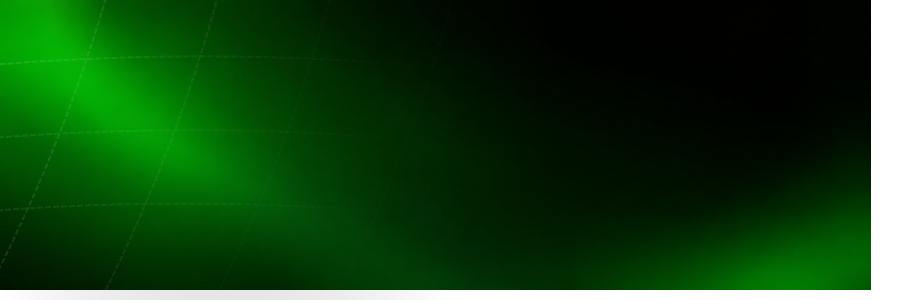
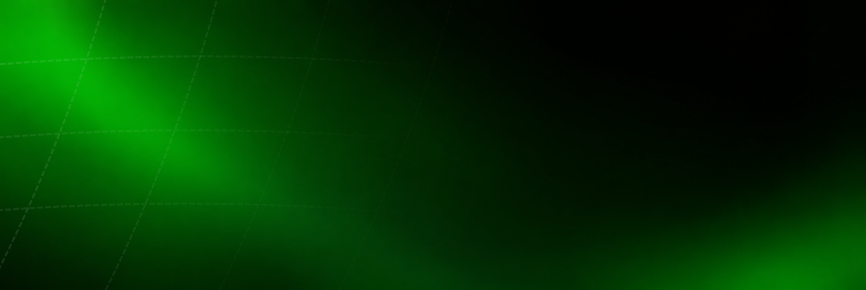
add button functionlity, add carousel, more

Changed region(s): [[0.0, 0.0, 1.0, 1.0]]

diff --git a/docs/index.html b/docs/index.html
@@ -12,13 +12,19 @@
     <div class="header-section">
         <img src="./Sismo_logo_final-circle.png" alt="SISMO logo">
         <h1>SISMO</h1>
-        <nav class="nav-bar" aria-label="Main navigation">
-            <a href="team.html">Team</a>
+        <nav class="nav-bar timeline-nav">
+            <a href="#timeline-panel" class="scroll-button">Timeline</a>
         </nav>
-        <nav class="nav-bar" aria-label="Main navigation">
-            <a href="problem.html">Problem</a>
+
+        <nav class="nav-bar">
+            <a href="#team-panel" class="scroll-button">Team</a>
         </nav>
-        <nav class="nav-bar github-nav" aria-label="Main navigation">
+
+        <nav class="nav-bar">
+            <a href="#product-panel" class="scroll-button">Product</a>
+        </nav>
+
+        <nav class="nav-bar github-nav">
             <a href="https://github.com/DylanSoule/SISMO-HUNCH-26-27" target="_blank">Github</a>
         </nav>
     </div>
@@ -63,11 +69,12 @@
         <h2>Cool Title</h2>
 
         <nav class="nav-box">
-            <button class="active" data-panel="timeline-panel">
+            <button class="active" data-panel="timeline-panel" id="timeline-target">
                 Timeline?
             </button>
 
             <button data-panel="team-panel">
+
                 Team
             </button>
 
@@ -110,7 +117,28 @@
             </section>
         </div>
     </section>
-        <footer>
+
+    <section class="fourth-box">
+        <h2>gns3/rresearch/cable diagram</h2>
+        <div class="carousel">
+            <div class="slide" id="slide-1">
+                <div class="slide-image-slot" aria-label="Image slot for slide 1"></div>
+                <p>Add a description for the first image here.</p>
+            </div>
+            <div class="slide" id="slide-2">
+                <div class="slide-image-slot" aria-label="Image slot for slide 2"></div>
+                <p>Add a description for the second image here.</p>
+            </div>
+            <div class="slide" id="slide-3">
+                <div class="slide-image-slot" aria-label="Image slot for slide 3"></div>
+                <p>Add a description for the third image here.</p>
+            </div>
+
+        </div>
+
+    </section>
+
+    <footer>
         <h3>View Our Project on GitHub</h3>
         <p>Check out the source code, documentation, and contribute to the SISMO project.</p>
         <a href="https://github.com/DylanSoule/SISMO-HUNCH-26-27" target="_blank">
@@ -124,6 +152,9 @@
 <script>
     const buttons = document.querySelectorAll(".nav-box button");
     const panels = document.querySelectorAll(".tab-panel");
+    const scrollButtons = document.querySelectorAll(".scroll-button");
+    const carousel = document.querySelector(".carousel");
+    const slides = document.querySelectorAll(".slide");
 
     buttons.forEach(button => {
         button.addEventListener("click", () => {
@@ -139,6 +170,48 @@
 
             button.classList.add("active");
             document.getElementById(selectedPanel).classList.add("active");
+        });
+    });
+
+    scrollButtons.forEach(link => {
+        link.addEventListener("click", event => {
+            event.preventDefault();
+
+            const panelId = link.getAttribute("href").substring(1);
+            const targetButton = document.querySelector(
+                `[data-panel="${panelId}"]`
+            );
+
+            if (!targetButton) {
+                return;
+            }
+
+            targetButton.click();
+
+            document.querySelector(".third-box").scrollIntoView({
+                behavior: "smooth",
+                block: "start"
+            });
+        });
+    });
+
+    slides.forEach(slide => {
+        slide.addEventListener("click", event => {
+            const clickedSlide = event.currentTarget;
+            const currentIndex = Math.round(
+                carousel.scrollLeft / (clickedSlide.offsetWidth + 16)
+            );
+            const clickedIndex = Array.from(slides).indexOf(clickedSlide);
+
+            if (clickedIndex === currentIndex) {
+                return;
+            }
+
+            clickedSlide.scrollIntoView({
+                behavior: "smooth",
+                block: "nearest",
+                inline: "center"
+            });
         });
     });
 </script>

diff --git a/docs/style.css b/docs/style.css
@@ -1,6 +1,7 @@
 html,
 body {
     min-height: 100%;
+    scroll-behavior: smooth;
     margin: 0;
 }
 
@@ -33,7 +34,7 @@ body {
 }
 
 .header-section img {
-    padding-top: 0;
+    padding-top: 10px;
     padding-left: 30px;
     width: 30px;
     height: 30px;
@@ -151,9 +152,9 @@ body {
 }
 
 .third-box {
-    width: 98%;
+    width: auto;
     min-height: 420px;
-    margin: 0 0 40px 13px;
+    margin: 0 13px 40px;
     padding: 30px;
     box-sizing: border-box;
     display: grid;
@@ -163,6 +164,7 @@ body {
     align-content: start;
     background: url(third_bg.png) center / cover no-repeat;
     border-radius: 10px;
+    scroll-margin-top: 90px;
 }
 
 .third-box h2 {
@@ -178,7 +180,7 @@ body {
 
 .nav-box {
     grid-column: 1 / -1;
-    width: 30%;
+    width: 35%;
     justify-self: center;
     align-self: start;
     display: flex;
@@ -191,6 +193,7 @@ body {
 }
 
 .nav-box button {
+    scroll-margin-top: 250px;
     font: inherit;
     font-size: 22px;
     font-weight: bold;
@@ -273,33 +276,58 @@ body {
 .team-cards .card h2,
 .team-cards .card p {
     margin: 16px 0;
+    color: black;
     text-align: left;
 }
 
 
+.fourth-box {
+    width: auto;
+    min-width: 0;
+    min-height: 700px;
+    margin: 0 13px 40px;
+    padding: 30px;
+    box-sizing: border-box;
+    display: grid;
+    grid-template-columns: repeat(4, minmax(0, 1fr));
+    gap: 16px;
+    background: url(fourth_bg.png) center / cover no-repeat;
+    border-radius: 10px;
+}
 
+.fourth-box h2 {
+    grid-column: 1 / -1;
+    margin: 0;
+    color: white;
+    text-align: center;
+    font-family: 'Slabo', serif;
+    font-size: 2.3em;
+}
 
 footer {
     background: rgb(0, 31, 0);
-    padding: 25px 20px 20px 20px !important;
+    box-sizing: border-box;
+    padding: 25px 20px 20px;
     text-align: center;
-    margin: 40px 0 0 0 !important;
-    color: rgb(253, 250, 250) !important;
-    width: 100% !important;
-    position: relative;
-    z-index: 1;
+    margin: 0;
+    color: rgb(253, 250, 250);
+    width: 100%;
 }
 
 footer h3 {
-    color: rgb(255, 255, 255) !important;
+    color: rgb(255, 255, 255);
     font-size: 1.3em;
     margin-bottom: 10px;
 }
 
 footer p {
-    color: #fcfcfc !important;
+    color: #fcfcfc;
     font-size: 0.9em;
     margin: 5px 0;
+}
+
+footer a {
+    color: white;
 }
 
 footer a {
@@ -341,4 +369,60 @@ footer a:hover {
 }
 
 
+
+
+.carousel {
+    grid-column: 1 / -1;
+    display: flex;
+    min-height: 560px;
+    overflow-x: auto;
+    padding: 0 9%;
+    scroll-behavior: smooth;
+    scroll-snap-type: x mandatory;
+    scroll-padding: 0 9%;
+    gap: 12px;
+    scrollbar-width: none;
+}
+
+.carousel::-webkit-scrollbar {
+  display: none;
+}
+
+
+.slide {
+    flex: 0 0 88%;
+    width: 88%;
+    position: relative;
+    min-height: 100%;
+    padding: 24px;
+  display: flex;
+    flex-direction: column;
+  align-items: center;
+    justify-content: space-between;
+    gap: 20px;
+  color: white;
+    scroll-snap-align: center;
+    background: rgba(0, 0, 0, 0.25);
+    border-radius: 10px;
+}
+
+.slide-image-slot {
+    width: 100%;
+    flex: 1;
+    min-height: 380px;
+    background: rgba(200, 200, 208, 0.85);
+    border: 2px dashed rgba(255, 255, 255, 0.75);
+    border-radius: 8px;
+}
+
+.slide p {
+    width: 100%;
+    min-height: 70px;
+    margin: 0;
+    padding: 16px;
+    color: white;
+    background: rgba(0, 0, 0, 0.35);
+    border-radius: 8px;
+    text-align: center;
+}
 
